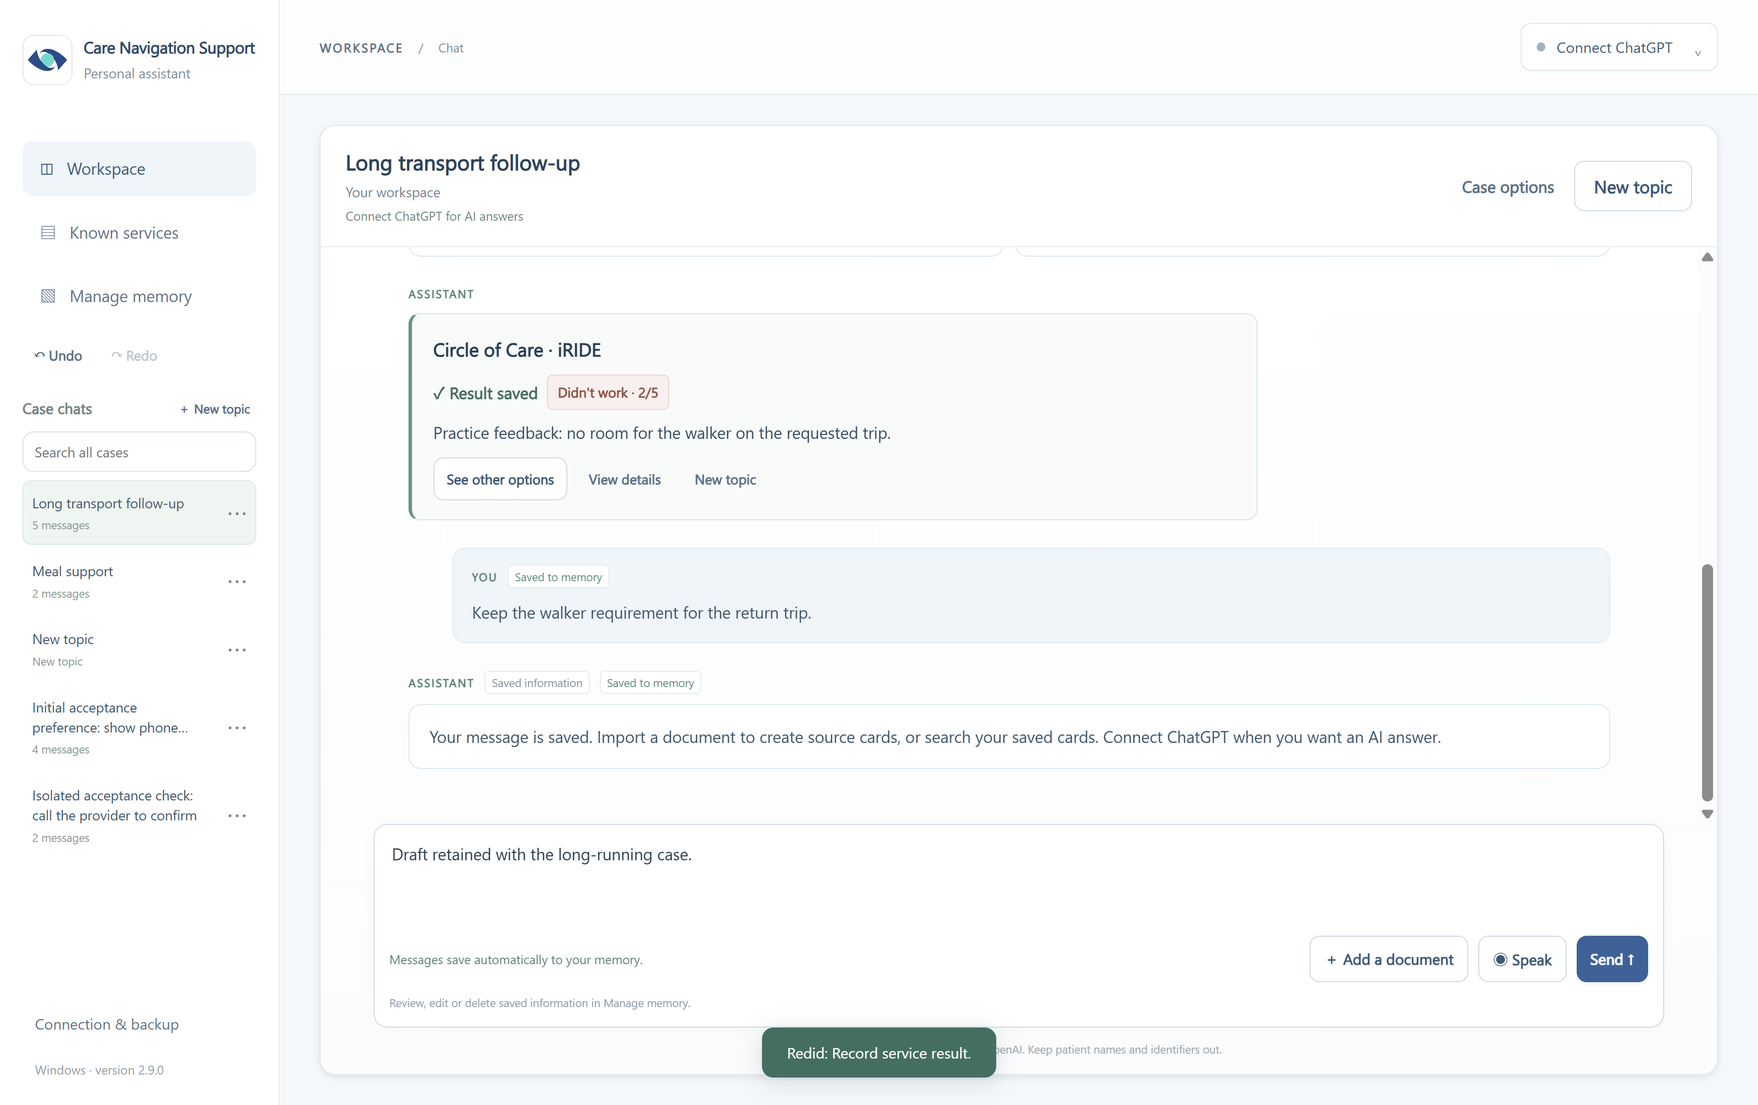
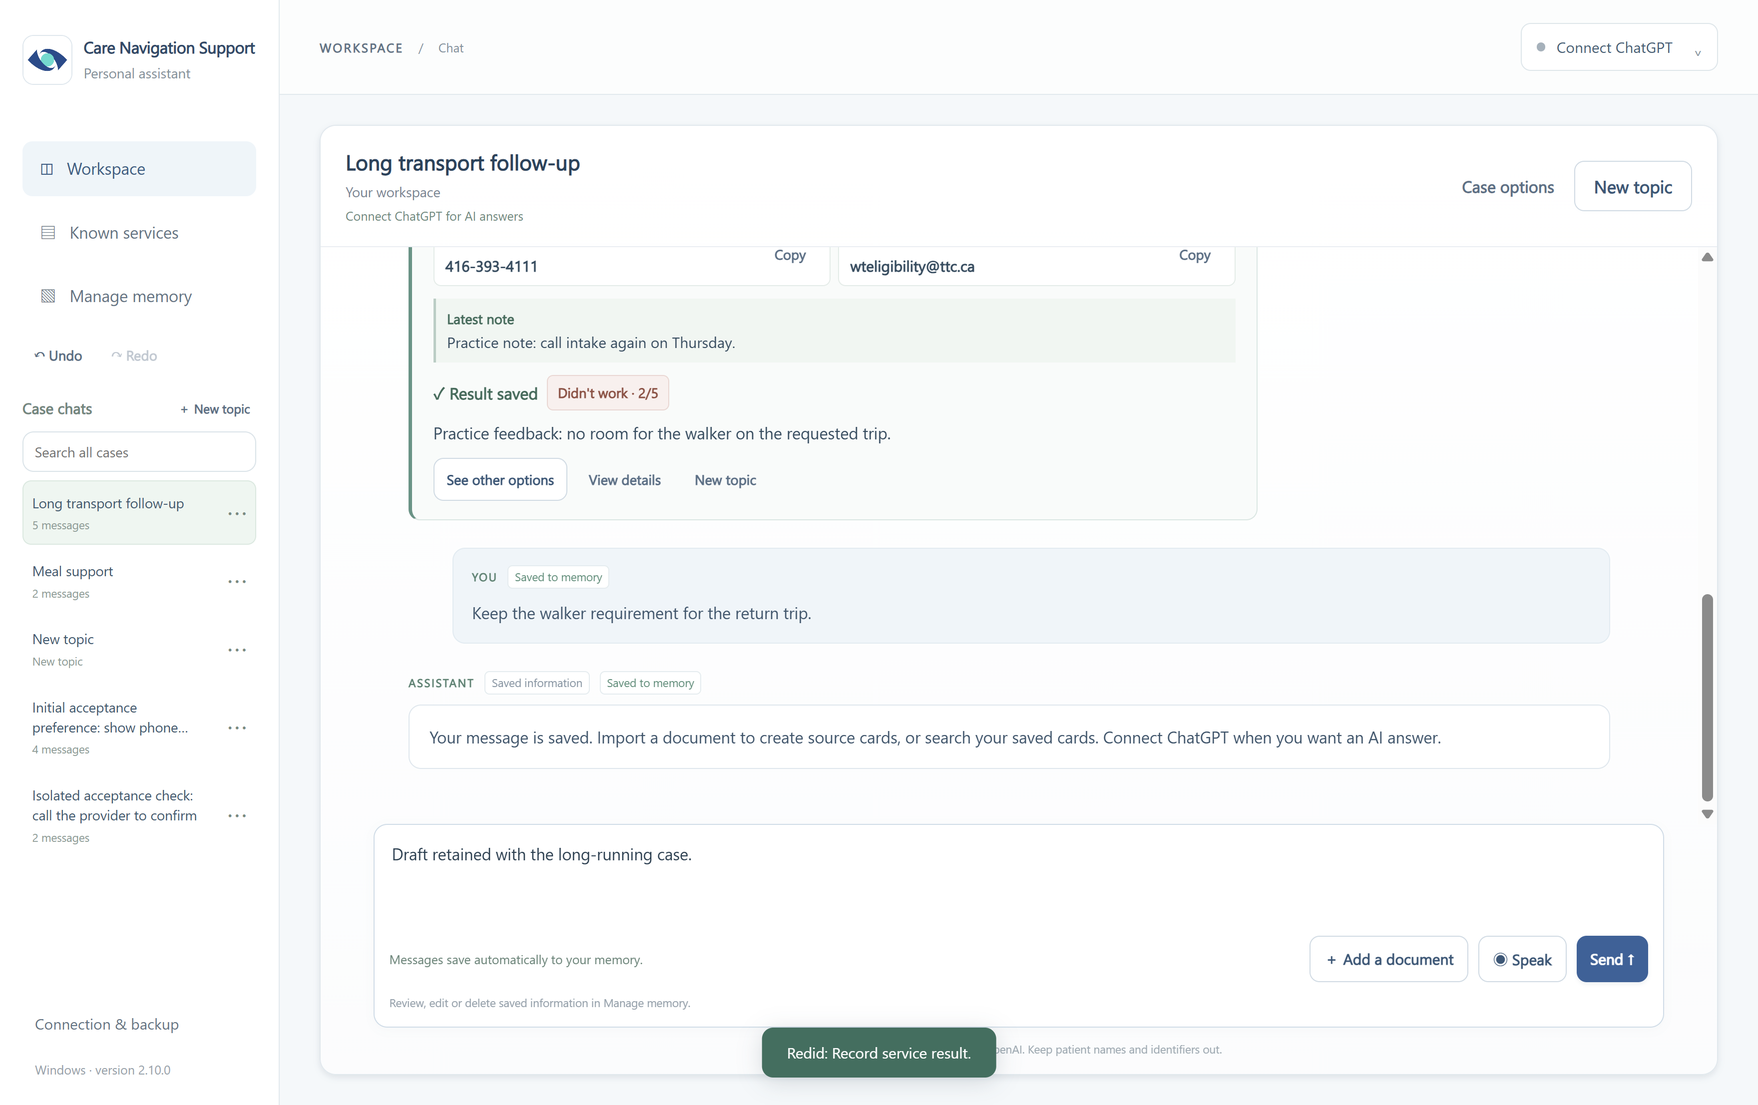
Add service notes and known contacts to chat cards

diff --git a/ui/documents.css b/ui/documents.css
@@ -70,21 +70,44 @@
   background: #f8fbfa;
   color: #2c4d61;
 }
-.chat-followup h3 { margin: 0 0 8px; color: #193f57; font-size: 15px; }
+.followup-heading {
+  display: flex;
+  flex-wrap: wrap;
+  align-items: center;
+  justify-content: space-between;
+  gap: 5px 10px;
+  margin-bottom: 8px;
+}
+.chat-followup h3 { margin: 0; color: #193f57; font-size: 15px; }
+.followup-add-note { font-size: 11px; padding: 6px 9px; }
 .chat-followup p { margin: 0; line-height: 1.55; }
+.followup-known-contact { margin-bottom: 10px; }
+.followup-contact-heading {
+  display: flex;
+  flex-wrap: wrap;
+  align-items: baseline;
+  gap: 3px 8px;
+  margin-bottom: 4px;
+}
+.followup-contact-heading h4, .followup-note-preview h4 { margin: 0; color: #346c5a; font-size: 11px; }
+.followup-contact-heading span { color: #597382; font-size: 11px; }
+.followup-contact-list {
+  display: grid;
+  grid-template-columns: repeat(auto-fit, minmax(min(100%, 230px), 1fr));
+  gap: 6px;
+}
 .followup-contact {
   display: flex;
   justify-content: space-between;
   align-items: center;
   gap: 8px;
-  max-width: 360px;
   padding: 5px 9px;
-  margin: 0 0 5px;
   border: 1px solid #e2ece8;
   border-radius: 6px;
   background: #fff;
   overflow-wrap: anywhere;
 }
+.followup-contact:only-child { max-width: 360px; }
 .followup-contact small { display: block; color: #597382; font-size: 10px; }
 .followup-contact strong { font-size: 12px; }
 .followup-contact button { flex-shrink: 0; font-size: 11px; }
@@ -98,6 +121,14 @@
 .followup-saved { color: #346c5a; font-weight: 650; }
 .followup-saved .result-badge, .followup-question .result-badge { margin: 0; }
 .chat-followup .followup-note { margin-top: 8px; }
+.followup-note-preview {
+  margin-bottom: 10px;
+  padding: 7px 9px;
+  border-left: 2px solid #b4cec5;
+  background: #eff6f2;
+  overflow-wrap: anywhere;
+}
+.followup-note-preview p { font-size: 12px; }
 .followup-fields {
   display: grid;
   grid-template-columns: minmax(0, 1fr) minmax(120px, auto);
@@ -113,6 +144,8 @@
   background: #fff;
 }
 .followup-fields textarea { min-height: 58px; resize: vertical; }
+.followup-note-editor { grid-template-columns: minmax(0, 1fr); }
+.followup-note-editor textarea { font-weight: 400; }
 .followup-actions { display: flex; flex-wrap: wrap; align-items: center; gap: 5px 7px; margin-top: 10px; }
 .followup-actions button { font-size: 11px; padding: 7px 10px; }
 .floating-chat .followup-fields { grid-template-columns: minmax(0, 1fr); }

diff --git a/README.md b/README.md
@@ -2,24 +2,24 @@
 
 A Windows prototype that helps navigators turn spreadsheets and documents into searchable **memory cards**, ask questions in everyday language, and keep useful notes for future conversations.
 
-**Status:** version 2.9.0 prototype. The Windows document readers and saved-card workflow have been tested. The installer is unsigned; real recipient ChatGPT access and Southlake deployment approval remain checks before routine field use.
+**Status:** version 2.10.0 prototype. The Windows document readers and saved-card workflow have been tested. The installer is unsigned; real recipient ChatGPT access and Southlake deployment approval remain checks before routine field use.
 
-The app, Windows shortcut and installer are named **Care Navigation Support**. Version 2.9 retains the previous Windows data location and installation identity so existing cards, notes and account connections remain available after updating. Close the previous version before running the new installer.
+The app, Windows shortcut and installer are named **Care Navigation Support**. Version 2.10 retains the previous Windows data location and installation identity so existing cards, notes and account connections remain available after updating. Close the previous version before running the new installer.
 
 ## Download and start
 
-### [Download the complete handoff package](https://github.com/victor221218/southlake-care-navigation-support/releases/download/v2.9.0/Care-Navigation-Support-Handoff-2.9.0.zip)
+### [Download the complete handoff package](https://github.com/victor221218/southlake-care-navigation-support/releases/download/v2.10.0/Care-Navigation-Support-Handoff-2.10.0.zip)
 
 Everything needed to review the prototype in one download: the Windows installer, editable source files, user and developer guides, and the verification report.
 
 | What you need | Open this |
 | --- | --- |
-| **Install and try the app** | [Windows installer](https://github.com/victor221218/southlake-care-navigation-support/releases/download/v2.9.0/Care-Navigation-Support-Setup-2.9.0.exe) |
-| **Quick-start guide** | [Download the quick-start guide](https://github.com/victor221218/southlake-care-navigation-support/releases/download/v2.9.0/Windows-Quick-Start.html) or [read the full guide here](START-HERE.md) |
-| **Download all deliverables** | [Complete handoff ZIP](https://github.com/victor221218/southlake-care-navigation-support/releases/download/v2.9.0/Care-Navigation-Support-Handoff-2.9.0.zip) |
+| **Install and try the app** | [Windows installer](https://github.com/victor221218/southlake-care-navigation-support/releases/download/v2.10.0/Care-Navigation-Support-Setup-2.10.0.exe) |
+| **Quick-start guide** | [Download the quick-start guide](https://github.com/victor221218/southlake-care-navigation-support/releases/download/v2.10.0/Windows-Quick-Start.html) or [read the full guide here](START-HERE.md) |
+| **Download all deliverables** | [Complete handoff ZIP](https://github.com/victor221218/southlake-care-navigation-support/releases/download/v2.10.0/Care-Navigation-Support-Handoff-2.10.0.zip) |
 | **Read or edit the code** | Browse the folders above; [start with the source map below](#source-code-map) |
 | **Build or maintain the app** | [Windows development instructions](WINDOWS-DEVELOPMENT.md) |
-| **Review test evidence and remaining checks** | [Release page and verification files](https://github.com/victor221218/southlake-care-navigation-support/releases/tag/v2.9.0) |
+| **Review test evidence and remaining checks** | [Release page and verification files](https://github.com/victor221218/southlake-care-navigation-support/releases/tag/v2.10.0) |
 
 The public release can be downloaded without a GitHub account. Opening the installer is different from downloading source code: Use the installer to run the app or the source files for development.
 
@@ -55,9 +55,9 @@ Service recommendations show all returned cards together, without a separate wri
 
 ![Compact service choices](docs/compact-choices.png)
 
-Click a recommendation or **Use this service** to open its contact and result choices in the chat. **View details** opens the full provider card. Choose **Worked**, **Didn’t work** or **Not yet**. Worked and Didn’t work open an optional note and rating. **Save result** adds the feedback to the service card and shows it in the chat. **See other options** returns to the original choices if the service didn’t work.
+Click a recommendation or **Use this service** to open its contact and result choices in the chat. **Known contact** shows the listed phone and email at the top. Choose **Add a note** to save an independent note to the provider card. The latest note appears in the chat. **View details** opens the full provider card. Choose **Worked**, **Didn’t work** or **Not yet**. Worked and Didn’t work open an optional note and rating. **Save result** adds the feedback to the service card and shows it in the chat. **See other options** returns to the original choices if the service didn’t work.
 
-![Optional service feedback in the topic](docs/chat-followup.png)
+![Known contact and a saved note in the topic](docs/chat-followup.png)
 
 **Case chats** in the sidebar keeps separate named discussions. Choose **New topic** when the subject changes. A first request about a service becomes a short title such as **Transportation in North York**. Rename it through **Case options** or click an earlier title to return. Messages, selected card and the unsent draft stay with that case after the app closes. Use non-identifying titles. Earlier messages load in pages; the assistant can search older discussion within the current case.
 
@@ -97,7 +97,7 @@ The Ask assistant entry point is in the upper-right of the Known services headin
 
 | Step | What happens |
 | --- | --- |
-| **1. Install** | Open `Care-Navigation-Support-Setup-2.9.0.exe`, choose Install, then Finish. Later, open Care Navigation Support from the desktop or Start menu. |
+| **1. Install** | Open `Care-Navigation-Support-Setup-2.10.0.exe`, choose Install, then Finish. Later, open Care Navigation Support from the desktop or Start menu. |
 | **2. Connect** | Choose Continue with ChatGPT. Sign in on OpenAI's page using your own ChatGPT account and review the requested permissions. Return to the app. |
 | **3. Add a document** | Choose Add a document beside Speak at the bottom of the chat, select a file, review its preview and warnings, then Save cards. |
 | **4. Ask a question** | Type a question, or Speak, Stop listening, review the transcript, and Send. Answers are text, with clickable source cards where relevant. |
@@ -151,12 +151,12 @@ Official references: [Sign in with ChatGPT](https://developers.openai.com/siwc/q
 
 ## Files in the complete handoff ZIP
 
-Extract the ZIP first, then open **START-HERE.html** inside `Care-Navigation-Support-Windows-2.9`.
+Extract the ZIP first, then open **START-HERE.html** inside `Care-Navigation-Support-Windows-2.10`.
 
 | File or folder | What it is for |
 | --- | --- |
 | `START-HERE.html` | Links to the installer, guides and source overview within the extracted package |
-| `Care-Navigation-Support-Setup-2.9.0.exe` | The normal per-user Windows installer; includes the app runtime, document readers and English speech model |
+| `Care-Navigation-Support-Setup-2.10.0.exe` | The normal per-user Windows installer; includes the app runtime, document readers and English speech model |
 | `source/` | The original editable source files, tests, dependency versions, build scripts and required source assets |
 | `documentation/Windows-Quick-Start.html` | Quick-start instructions |
 | `documentation/Full-Guide.md` | Detailed usage, file limits, memory and backup instructions |

diff --git a/WINDOWS-DEVELOPMENT.md b/WINDOWS-DEVELOPMENT.md
@@ -1,4 +1,4 @@
-# Windows development — version 2.9.0
+# Windows development — version 2.10.0
 
 These steps cover development and installer builds. End users use the finished Windows installer and need none of these tools.
 
@@ -41,7 +41,7 @@ python scripts/prepare-windows.py
 & 'C:/build-tools/Inno Setup/ISCC.exe' scripts/windows-installer.iss
 ```
 
-Adjust only the compiler path to its approved installation. The result is `release/setup/Care-Navigation-Support-Setup-2.9.0.exe`. Version and app identity are defined in package.json and scripts/windows-installer.iss. Keep them consistent. The hoisted pinned dependencies provide the Windows resource editor used during staging. `assets/care-navigation-logo.png` is the supplied artwork and `assets/hive.ico` contains the Windows icon sizes. It installs per Windows user and retains separate app-data files on upgrade/uninstall.
+Adjust only the compiler path to its approved installation. The result is `release/setup/Care-Navigation-Support-Setup-2.10.0.exe`. Version and app identity are defined in package.json and scripts/windows-installer.iss. Keep them consistent. The hoisted pinned dependencies provide the Windows resource editor used during staging. `assets/care-navigation-logo.png` is the supplied artwork and `assets/hive.ico` contains the Windows icon sizes. It installs per Windows user and retains separate app-data files on upgrade/uninstall.
 
 The packager collects dependency license notices. Keep the bundled Vosk model source manifest, Apache license and notices with the assets. The OpenAI demonstration DevKit is not bundled; this app implements the published protocol independently.
 
@@ -52,7 +52,7 @@ After build/package and runtime configuration:
 ```powershell
 node scripts/prepare-document-smoke.mjs
 python scripts/prepare-windows.py --document-smoke
-& '.runtime/document-smoke-2.9.0/Care Navigation Support Test.exe'
+& '.runtime/document-smoke-2.10.0/Care Navigation Support Test.exe'
 ```
 
 Run this from a normal Windows desktop session. It uses its own isolated test profile and fictional files, exercises the shipping main/renderer/IPC, checks all three bundled Office/PDF readers, and relaunches to verify pending notes are saved before closing. It writes `document-smoke-result.json` in its test directory. It does not sign in, perform live AI requests, read existing user data or open the microphone. The test preload/bootstrap and fixtures are **not** part of the shipping installer.
@@ -60,7 +60,7 @@ Run this from a normal Windows desktop session. It uses its own isolated test pr
 For an extraction-only installer check, use a fresh test directory:
 
 ```powershell
-& 'release/setup/Care-Navigation-Support-Setup-2.9.0.exe' /PORTABLE=1 /DIR="C:/build-tests/care-navigation-support-2.9.0" /VERYSILENT /SUPPRESSMSGBOXES /NORESTART
+& 'release/setup/Care-Navigation-Support-Setup-2.10.0.exe' /PORTABLE=1 /DIR="C:/build-tests/care-navigation-support-2.10.0" /VERYSILENT /SUPPRESSMSGBOXES /NORESTART
 ```
 
 This copies application files without normal shortcuts/uninstall registration. It does not prove the UI, account connection or AI work. Do not disable Chromium sandboxing or bypass OS protection to make a build launch.
@@ -75,7 +75,7 @@ Legacy service-navigation and Mac development notes are retained in BUILDING.md;
 
 ## Service directory and app identity
 
-`src/documents/services.mjs` builds the 27 public cards from the earlier researched catalog, with source dates and targeted contact updates. Initialization uses stable source keys, avoids duplicate imports, and retains notes when the public snapshot is updated. `src/app-identity.mjs` preserves the legacy Windows data folder independently of the displayed product name. Production runtime files stage into `release/windows-app-2.9.0`. Keep the Inno Setup application ID unchanged when publishing upgrades.
+`src/documents/services.mjs` builds the 27 public cards from the earlier researched catalog, with source dates and targeted contact updates. Initialization uses stable source keys, avoids duplicate imports, and retains notes when the public snapshot is updated. `src/app-identity.mjs` preserves the legacy Windows data folder independently of the displayed product name. Production runtime files stage into `release/windows-app-2.10.0`. Keep the Inno Setup application ID unchanged when publishing upgrades.
 
 ## Version 2.7 interface checks
 
@@ -115,3 +115,6 @@ The renderer shows all returned cards, suppresses standalone service-recommendat
 `CaseFollowups` validates a service against the recommendation in its owning topic. Its prompt and optional draft live in existing case-message JSON. The final save writes a single provider result and an Undo entry in the same transaction. Reopening resolves the result from the provider record so Undo and Redo show the current state. Backup restore remaps provider and result references. These controls work locally.
 
 `topic.mjs` summarizes the first request for a new topic using directory service categories and areas. The service and area also provide a local lookup when a full prompt is too specific for a direct text match. The Windows check exercises the sample transportation prompt, feedback in chat, deferral, switching topics, returning to a draft and Undo/Redo.
+
+
+Independent service notes use the same comment and Undo/Redo records as the provider detail view. Follow-up messages retain the draft and linked comment IDs. The display picks a phone and email separately, so multiple phone entries cannot hide an available email. The Windows check covers the contact block and saving a note while the result is still pending.

diff --git a/SHARING.md b/SHARING.md
@@ -1,6 +1,6 @@
 # Share the Windows app
 
-Share the [GitHub download page](https://github.com/victor221218/southlake-care-navigation-support/releases/tag/v2.9.0). Users choose **Care-Navigation-Support-Setup-2.9.0.exe** and open it; there is no ZIP to extract to install the app. The same page offers the quick-start guide and a complete source/handoff ZIP for maintainers.
+Share the [GitHub download page](https://github.com/victor221218/southlake-care-navigation-support/releases/tag/v2.10.0). Users choose **Care-Navigation-Support-Setup-2.10.0.exe** and open it; there is no ZIP to extract to install the app. The same page offers the quick-start guide and a complete source/handoff ZIP for maintainers.
 
 A C: drive link works on this computer only. To send a download link, upload the installer and share that actual file page. The public GitHub release is verified separately after upload.
 
@@ -34,7 +34,7 @@ python scripts/prepare-windows.py
 
 The document tests exercise the built background reader, so build first. The Windows staging script expects the matching official Electron runtime manifest/cache; a new build machine must supply that runtime and Inno Setup. Third-party notices are in app.asar. The installer uses the same app ID and per-user directory, preserving user data on upgrade and uninstall. Never distribute developer QA stages, test profiles or credentials.
 
-## Version 2.9 upgrade
+## Version 2.10 upgrade
 
 The Windows app and shortcuts use the name Care Navigation Support and the supplied logo. The installer keeps the existing installation ID and the Windows data location `%APPDATA%\Southlake Hive` to retain saved accounts, documents and notes. Close the previous app before updating. Public starting cards are initialized separately in each account and do not transfer anyone’s comments to another account. No automatic updater is included.
 
@@ -64,3 +64,6 @@ All returned service choices appear together. Brief reasons and checks stay insi
 ## Service follow-up in chat
 
 A recommendation opens a result prompt in the same topic. It can be deferred and its optional note and rating can be drafted before saving. Choose New topic for a separate chat. Service requests get short titles based on the need and area. A saved result is a single provider feedback record, available in the conversation and on the provider card. Undo and Redo apply to that record. Backups retain the chat and its linked feedback. Existing conversations remain readable.
+
+
+The follow-up card shows its listed phone and email under Known contact. Add a note saves to the provider card without recording a result. The chat previews the latest note added there. Drafts and note references carry through backup restore.

diff --git a/START-HERE.md b/START-HERE.md
@@ -1,6 +1,6 @@
-# Care Navigation Support — Windows 2.9 prototype
+# Care Navigation Support — Windows 2.10 prototype
 
-Open **Care-Navigation-Support-Setup-2.9.0.exe**, choose **Install**, then **Finish**. Open **Care Navigation Support** from your desktop or Start menu afterwards. No ZIP extraction, coding tools, terminal commands or plugin setup are needed.
+Open **Care-Navigation-Support-Setup-2.10.0.exe**, choose **Install**, then **Finish**. Open **Care Navigation Support** from your desktop or Start menu afterwards. No ZIP extraction, coding tools, terminal commands or plugin setup are needed.
 
 This installer supports Windows 10 version 2004 or later and Windows 11 on 64-bit Intel/AMD computers. It installs for the current Windows user. The pilot is unsigned. If Windows or your organization blocks it, ask your administrator to approve distribution. A signed publisher release is required for a routine Southlake rollout.
 
@@ -94,7 +94,7 @@ After saving, use **Undo** to reverse the most recent saved rating/result/note c
 ## Follow up from a service card in chat
 
 1. Ask “I need transportation in North York for an older adult who uses a walker. Show me suitable service cards.”
-2. Click a recommendation or **Use this service**. The provider contact and result choices appear in the conversation. **View details** opens the full card.
+2. Click a recommendation or **Use this service**. The listed phone and email appear under **Known contact** at the top. Choose **Add a note** and **Save note** to record information before or after a result. The note also saves to the provider card. **View details** opens the full card.
 3. After trying the service, choose **Worked** or **Didn’t work**. Use **Not yet** to return later.
 4. Add an optional note or rating and choose **Save result**. A blank note and rating are fine. **Finish later** keeps a draft with the topic. Saved feedback is also available on the service card.
 5. If it didn’t work, choose **See other options** to return to the choices. Choose **New topic** when the subject changes. Reopen earlier chats from the sidebar.

diff --git a/RELEASE-NOTES.md b/RELEASE-NOTES.md
@@ -1,8 +1,7 @@
-# Care Navigation Support 2.9.0
+# Care Navigation Support 2.10.0
 
-- Click a recommended service to see its contact and follow-up choices in the chat. View details opens the full provider card.
-- Choose Worked, Didn’t work or Not yet. Add an optional note and rating, then save the result to the service card. A draft stays with the topic when you leave and return.
-- Choose See other options after an unsuccessful result, or New topic to start a separate chat. New chats use short titles such as Transportation in North York.
-- Close the previous app and open **Care-Navigation-Support-Setup-2.9.0.exe**. Existing topics, saved information and account connections carry over.
+- The chat follow-up card starts with **Known contact**. It lists the phone number and email when available, with a Copy button for each.
+- **Add a note** opens an editor on the card. Save a note before or after recording a service result. The note appears on the provider card and the latest one appears in the chat.
+- Close the previous app and open **Care-Navigation-Support-Setup-2.10.0.exe** to update. Saved topics, notes, ratings and account connections carry over.
 
-The verification report covers the Windows workflow, saved feedback and Undo/Redo with practice records. The unsigned prototype still requires a check of Southlake's own ChatGPT connection and managed Windows deployment.
+The Windows checks cover contact placement, standalone notes and the existing result workflow. The unsigned prototype still requires Southlake to check its own ChatGPT connection and managed Windows deployment.
